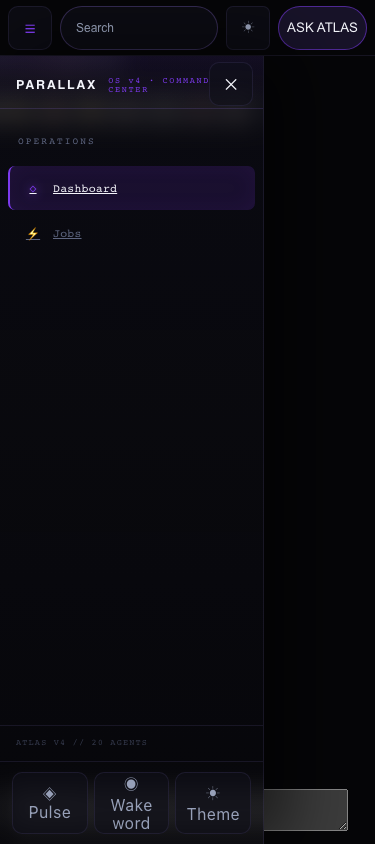
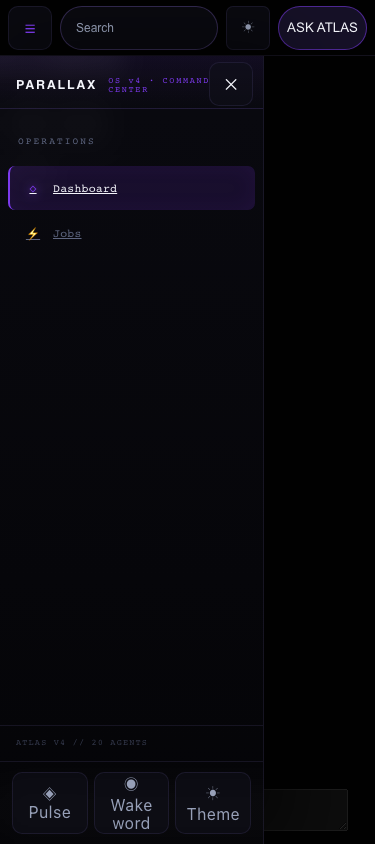
fix(cc): close the gaps the remediation review found
Quick controls now span the whole 0-1024 band the HUD hides them in, not just phones, so a tablet
has a path to Pulse, Wake word and Theme. The close button stops double-counting the safe-area
inset after the drawer moved below the HUD. Focus restoration treats <body> as 'no opener', which is
what mobile Safari leaves after a tap, and is armed only by a real open-to-close transition so a
phone page load no longer steals focus.

The touch-target floor now names classes that exist (.pg-btn, .task-quick on the task board's 17px
quick actions) instead of dead selectors. Tests: the focus assertion targets the close branch, the
reachability test reads the CSS that hides the controls, and the harness's overlay is a real fixed
layer with the dense-cluster measurement on real buttons.

Changed region(s): [[0.704, 0.9242, 0.9387, 0.9858]]

diff --git a/src/app/command-center/CommandCenterClientLayout.tsx b/src/app/command-center/CommandCenterClientLayout.tsx
@@ -289,6 +289,8 @@ function Cockpit({
           .po-shell .po-side-close,
           .po-shell .po-quick,
           .po-shell .sw-filter-row button,
+          .po-shell .task-quick,
+          .po-shell .pg-btn,
           .po-shell .chat-input-area button,
           .po-shell .chat-header-bar button { min-height: 44px; }
           .po-shell .po-side-close, .po-shell .po-quick { min-width: 44px; }
@@ -307,7 +309,6 @@ function Cockpit({
           .po-shell .chat-inline-symbol { display: none !important; }
           .po-shell .chat-input-textarea { padding-right: 118px !important; }
           .po-shell .chat-top-nav a { min-height: 44px; display: inline-flex; align-items: center; }
-          body:has(#cc-alertbar) .chat-root { height: calc(100dvh - 102px - env(safe-area-inset-top)) !important; }
           .po-shell .sanc-star { padding: 12px 14px; margin: -12px -14px; }
         }
         @media (max-width: 767px) {
@@ -377,10 +378,11 @@ function Cockpit({
         /* The chat pane sizes itself from the viewport, so it has to give back the same 38px the
            ticker adds to the content inset — at every width, not only the tablet one. */
         @media (min-width: 768px) {
-          /* The page sizes its own pane from 100vh - 56px, but the desktop HUD is 64px, so the
-             composer sat 8px below the fold before this rule. */
-          .chat-root { height: calc(100dvh - 64px - env(safe-area-inset-top)) !important; }
-          body:has(#cc-alertbar) .chat-root { height: calc(100dvh - 102px - env(safe-area-inset-top)) !important; }
+          /* Scoped to the content column so no future page inherits it by accident. The page sizes
+             its own pane from 100vh - 56px, but the desktop HUD is 64px, so the composer sat 8px
+             below the fold before this rule. */
+          #cc-content .chat-root { height: calc(100dvh - 64px - env(safe-area-inset-top)) !important; }
+          body:has(#cc-alertbar) #cc-content .chat-root { height: calc(100dvh - 102px - env(safe-area-inset-top)) !important; }
         }
         #cc-alertbar { top: calc(64px + env(safe-area-inset-top)) !important; }
         .po-menu-btn { display: none; }
@@ -391,9 +393,18 @@ function Cockpit({
           .po-shell .po-cmdbar { justify-content: center; padding: 0 10px; }
         }
         .po-side-close { display: none; }
+        /* The HUD hides these three at <=1024, so the drawer must offer them across the whole
+           range it hides them in, not only on phones. On the 66px rail they stack icon-only. */
         .po-side-quick { display: none; }
+        @media (max-width: 1024px) {
+          .po-side-quick { display: grid; grid-template-columns: 1fr; gap: 6px; padding: 8px 8px 10px; border-top: 1px solid var(--line); }
+          .po-shell .po-quick { min-height: 44px; font-size: 0; }
+          .po-shell .po-quick .lbl { display: none; }
+        }
         @media (max-width: 767px) {
-          .po-side-quick { display: grid; grid-template-columns: repeat(3, 1fr); gap: 6px; padding: 10px 12px; border-top: 1px solid var(--line); }
+          .po-side-quick { grid-template-columns: repeat(3, 1fr); padding: 10px 12px; }
+          .po-shell .po-quick { font-size: 10px; }
+          .po-shell .po-quick .lbl { display: block; }
         }
         @media (max-width: 767px) {
           #cc-hud { left: 0 !important; height: calc(56px + env(safe-area-inset-top)) !important; padding: env(safe-area-inset-top) 8px 0 !important; gap: 8px !important; }
@@ -424,7 +435,7 @@ function Cockpit({
           .po-shell .po-quick { display: inline-flex; flex-direction: column; align-items: center; justify-content: center; gap: 4px; min-height: 52px; border-radius: 10px; border: 1px solid var(--line); background: var(--panel-glass); color: var(--t-mid); font: 600 10px/1.2 var(--f-sans, inherit); letter-spacing: 0.04em; cursor: pointer; }
           .po-shell .po-quick[aria-pressed='true'] { color: var(--accent); border-color: color-mix(in oklab, var(--accent) 45%, var(--line)); }
           .po-side-head { padding-right: 56px; }
-          .po-side-close { display: grid; position: absolute; top: calc(env(safe-area-inset-top) + 6px); right: 10px; width: 44px; height: 44px; place-items: center; z-index: 2; border-radius: 10px; border: 1px solid var(--line); background: var(--panel-glass); color: var(--t-hi); font: inherit; cursor: pointer; }
+          .po-side-close { display: grid; position: absolute; top: 6px; right: 10px; width: 44px; height: 44px; place-items: center; z-index: 2; border-radius: 10px; border: 1px solid var(--line); background: var(--panel-glass); color: var(--t-hi); font: inherit; cursor: pointer; }
           .po-shell .po-navitem { min-height: 44px; }
           .po-shell .atlas-briefing { top: calc(56px + env(safe-area-inset-top)) !important; width: 100vw !important; max-width: 100vw !important; z-index: 80 !important; padding-bottom: env(safe-area-inset-bottom); }
           .po-shell .atlas-briefing button { min-width: 44px; min-height: 44px; }
@@ -450,8 +461,8 @@ function Cockpit({
           .po-shell .po-side-close,
           .po-shell .po-quick,
           .po-shell .sw-filter-row button,
-          .po-shell .task-actions button,
-          .po-shell .pg-head-act button { min-height: 44px; }
+          .po-shell .task-quick,
+          .po-shell .pg-btn { min-height: 44px; }
           .po-shell .po-side-close, .po-shell .po-quick { min-width: 44px; }
           .po-shell .pg-head-act a { min-height: 44px; display: inline-flex; align-items: center; }
           .po-shell .chat-input-area button, .po-shell .chat-header-bar button { min-width: 44px; }

diff --git a/src/components/command-center/__tests__/Sidebar.mobile.test.tsx b/src/components/command-center/__tests__/Sidebar.mobile.test.tsx
@@ -12,8 +12,9 @@ import Sidebar from '../Sidebar';
 
 vi.mock('next/navigation', () => ({ usePathname: () => '/command-center' }));
 
+const toggleTheme = vi.fn();
 vi.mock('../PoShell', () => ({
-  usePoTheme: () => ({ theme: 'dark', still: false, toggleTheme: vi.fn(), toggleStill: vi.fn() }),
+  usePoTheme: () => ({ theme: 'dark', still: false, toggleTheme, toggleStill: vi.fn() }),
 }));
 
 /** jsdom has no matchMedia; the drawer asks it whether it is in its off-canvas state. */
@@ -59,7 +60,9 @@ describe('mobile drawer', () => {
     const menu = document.createElement('button');
     menu.id = 'cc-menu-btn';
     document.body.appendChild(menu);
-    menu.focus();
+    // Deliberately NOT focused first: mobile Safari leaves activeElement on <body> after a tap, so
+    // this is the real-world case. A test that pre-focuses the button hides the bug.
+    expect(document.activeElement).toBe(document.body);
 
     render(<Sidebar />);
     openDrawer();
@@ -67,7 +70,7 @@ describe('mobile drawer', () => {
 
     fireEvent.keyDown(document, { key: 'Escape' });
     await waitFor(() => expect(drawer()).toHaveAttribute('inert'));
-    expect(document.activeElement).toBe(menu);
+    await waitFor(() => expect(document.activeElement).toBe(menu));
     menu.remove();
   });
 
@@ -77,6 +80,17 @@ describe('mobile drawer', () => {
     expect(drawer()).not.toHaveAttribute('inert');
   });
 
+  it('does not steal focus on a phone page load, when the drawer was never opened', async () => {
+    const menu = document.createElement('button');
+    menu.id = 'cc-menu-btn';
+    document.body.appendChild(menu);
+    render(<Sidebar />);
+    // let the matchMedia effect flip isPhone true and the state effect re-run
+    await waitFor(() => expect(drawer()).toHaveAttribute('inert'));
+    expect(document.activeElement).not.toBe(menu);
+    menu.remove();
+  });
+
   it('carries working pulse, wake and theme controls', async () => {
     const pulses: Event[] = [];
     const wakes: Event[] = [];
@@ -84,14 +98,34 @@ describe('mobile drawer', () => {
     window.addEventListener('cc:toggle-wake', (e) => wakes.push(e));
 
     render(<Sidebar />);
-    openDrawer();
-    await waitFor(() => expect(drawer()).not.toHaveAttribute('inert'));
+
+    // Each control hands the screen back to whatever it opened, so each is used from a fresh open.
+    const open = async () => {
+      openDrawer();
+      await waitFor(() => expect(drawer()).not.toHaveAttribute('inert'));
+    };
+
+    await open();
     fireEvent.click(screen.getByRole('button', { name: /pulse/i }));
-    fireEvent.click(screen.getByRole('button', { name: /wake/i }));
-    fireEvent.click(screen.getByRole('button', { name: /theme|appearance/i }));
+    await waitFor(() => expect(drawer()).toHaveAttribute('inert'));
+
+    await open();
+    fireEvent.click(screen.getByRole('button', { name: /wake word/i }));
+    await waitFor(() => expect(drawer()).toHaveAttribute('inert'));
+
+    await open();
+    fireEvent.click(screen.getByRole('button', { name: /theme/i }));
 
     expect(pulses).toHaveLength(1);
     expect(wakes).toHaveLength(1);
-    expect(screen.getByRole('button', { name: /theme|appearance/i })).toBeInTheDocument();
+    expect(toggleTheme).toHaveBeenCalledTimes(1);
+  });
+
+  it('reflects pressed state from the shell rather than guessing', async () => {
+    render(<Sidebar wakeEnabled pulseOpen />);
+    openDrawer();
+    await waitFor(() => expect(drawer()).not.toHaveAttribute('inert'));
+    expect(screen.getByRole('button', { name: /pulse/i })).toHaveAttribute('aria-pressed', 'true');
+    expect(screen.getByRole('button', { name: /wake word/i })).toHaveAttribute('aria-pressed', 'true');
   });
 });

diff --git a/src/app/command-center/tasks/page.tsx b/src/app/command-center/tasks/page.tsx
@@ -482,7 +482,7 @@ export default function TaskBoardPage() {
                       <div className="flex gap-1.5 mt-2">
                         {col.id === "backlog" && (
                           <button
-                            className="flex-1 text-[10px] py-1.5 rounded-lg font-medium transition-all hover:scale-105"
+                            className="task-quick flex-1 text-[10px] py-1.5 rounded-lg font-medium transition-all hover:scale-105"
                             style={{ background: "color-mix(in srgb, var(--c-amber) 15%, transparent)", color: "var(--c-amber)", border: "1px solid color-mix(in srgb, var(--c-amber) 25%, transparent)" }}
                             onClick={() => quickAction(task, col.id, "in-progress")}
                           >
@@ -491,7 +491,7 @@ export default function TaskBoardPage() {
                         )}
                         {col.id === "in-progress" && (
                           <button
-                            className="flex-1 text-[10px] py-1.5 rounded-lg font-medium transition-all hover:scale-105"
+                            className="task-quick flex-1 text-[10px] py-1.5 rounded-lg font-medium transition-all hover:scale-105"
                             style={{ background: "color-mix(in srgb, var(--c-purple) 15%, transparent)", color: "var(--c-purple)", border: "1px solid color-mix(in srgb, var(--c-purple) 25%, transparent)" }}
                             onClick={() => quickAction(task, col.id, "review")}
                           >
@@ -501,21 +501,21 @@ export default function TaskBoardPage() {
                         {col.id === "review" && (
                           <>
                             <button
-                              className="flex-1 text-[10px] py-1.5 rounded-lg font-medium transition-all hover:scale-105"
+                              className="task-quick flex-1 text-[10px] py-1.5 rounded-lg font-medium transition-all hover:scale-105"
                               style={{ background: "color-mix(in srgb, var(--c-green) 15%, transparent)", color: "var(--c-green)", border: "1px solid color-mix(in srgb, var(--c-green) 25%, transparent)" }}
                               onClick={() => quickAction(task, col.id, "done")}
                             >
                               Approve
                             </button>
                             <button
-                              className="flex-1 text-[10px] py-1.5 rounded-lg font-medium transition-all hover:scale-105"
+                              className="task-quick flex-1 text-[10px] py-1.5 rounded-lg font-medium transition-all hover:scale-105"
                               style={{ background: "color-mix(in srgb, var(--c-red) 15%, transparent)", color: "var(--c-red)", border: "1px solid color-mix(in srgb, var(--c-red) 25%, transparent)" }}
                               onClick={() => quickAction(task, col.id, "backlog")}
                             >
                               Reject
                             </button>
                             <button
-                              className="flex-1 text-[10px] py-1.5 rounded-lg font-medium transition-all hover:scale-105"
+                              className="task-quick flex-1 text-[10px] py-1.5 rounded-lg font-medium transition-all hover:scale-105"
                               style={{ background: "color-mix(in srgb, var(--c-amber) 15%, transparent)", color: "var(--c-amber)", border: "1px solid color-mix(in srgb, var(--c-amber) 25%, transparent)" }}
                               onClick={() => { setReviseTask(task); setReviseFeedback(""); }}
                             >

diff --git a/src/components/command-center/Sidebar.tsx b/src/components/command-center/Sidebar.tsx
@@ -183,11 +183,16 @@ export default function Sidebar({
     return () => window.removeEventListener('cc:toggle-nav', toggle);
   }, []);
 
+  const wasOpen = useRef(false);
   useEffect(() => {
     window.dispatchEvent(new CustomEvent('cc:nav-state', { detail: { open: mobileOpen } }));
-    if (!isPhone) return undefined;
+    if (!isPhone) {
+      wasOpen.current = mobileOpen;
+      return undefined;
+    }
 
     if (mobileOpen) {
+      wasOpen.current = true;
       const focusId = window.setTimeout(() => closeRef.current?.focus(), 0);
       const onKey = (e: KeyboardEvent) => {
         if (e.key === 'Escape') {
@@ -202,10 +207,16 @@ export default function Sidebar({
       };
     }
 
-    // Closing returns focus to whatever opened the drawer, normally the HUD menu button.
-    const target = openedFrom.current ?? document.getElementById('cc-menu-btn');
+    // Closing returns focus to whatever opened the drawer, normally the HUD menu button. Mobile
+    // Safari does not focus a button on tap, so activeElement is <body>: that is "no opener",
+    // not an opener, and focusing <body> would put the user nowhere.
+    if (!wasOpen.current) return undefined;
+    wasOpen.current = false;
+    const from = openedFrom.current;
     openedFrom.current = null;
-    if (target && document.contains(target)) target.focus();
+    const usable = from && from !== document.body && from !== document.documentElement && document.contains(from);
+    const target = usable ? from : document.getElementById('cc-menu-btn');
+    if (target) target.focus();
     return undefined;
   }, [mobileOpen, isPhone]);
 
@@ -299,25 +310,33 @@ export default function Sidebar({
             type="button"
             className="po-quick"
             aria-pressed={pulseOpen}
-            onClick={() => window.dispatchEvent(new CustomEvent('cc:toggle-pulse'))}
+            onClick={() => {
+              // the dock paints below the drawer overlay, so hand the screen back to it
+              window.dispatchEvent(new CustomEvent('cc:toggle-pulse'));
+              setMobileOpen(false);
+            }}
           >
-            <span aria-hidden>◈</span> Pulse
+            <span aria-hidden>◈</span><span className="lbl">Pulse</span>
           </button>
           <button
             type="button"
             className="po-quick"
             aria-pressed={wakeEnabled}
-            onClick={() => window.dispatchEvent(new CustomEvent('cc:toggle-wake'))}
+            onClick={() => {
+              window.dispatchEvent(new CustomEvent('cc:toggle-wake'));
+              setMobileOpen(false);
+            }}
           >
-            <span aria-hidden>◉</span> Wake word
+            <span aria-hidden>◉</span><span className="lbl">Wake word</span>
           </button>
           <button
             type="button"
             className="po-quick"
-            aria-pressed={theme === 'light'}
+            aria-label={`Theme: ${theme}`}
             onClick={toggleTheme}
+            data-theme-state={theme}
           >
-            <span aria-hidden>☀</span> Theme
+            <span aria-hidden>☀</span><span className="lbl">Theme</span>
           </button>
         </div>
       </aside>

diff --git a/src/components/command-center/__tests__/shell-invariants.test.ts b/src/components/command-center/__tests__/shell-invariants.test.ts
@@ -53,8 +53,15 @@ describe('chat height against the alert ticker', () => {
     expect(chat).toMatch(/body:has\(#cc-alertbar\)\s+\.chat-root\s*\{[^}]*100dvh\s*-\s*94px/);
   });
 
-  it('reserves the ticker in the tablet chat height', () => {
-    expect(shellCss).toMatch(/body:has\(#cc-alertbar\)\s+\.chat-root\s*\{[^}]*100dvh\s*-\s*102px/);
+  it('reserves the ticker in the tablet and desktop chat height', () => {
+    expect(shellCss).toMatch(/body:has\(#cc-alertbar\)\s+#cc-content\s+\.chat-root\s*\{[^}]*100dvh\s*-\s*102px/);
+  });
+
+  it('scopes the pane height to the content column rather than every page', () => {
+    // An unqualified `.chat-root` rule on a shell that wraps every route would stomp any future
+    // page that reuses the class, with nothing local to explain it.
+    expect(shellCss).toMatch(/#cc-content\s+\.chat-root/);
+    expect(shellCss).not.toMatch(/^\s*\.chat-root\s*\{/m);
   });
 });
 
@@ -69,6 +76,16 @@ describe('touch targets are targeted, not blanket', () => {
     expect(shellCss).toMatch(/\.po-shell\s+\.po-icbtn/);
     expect(shellCss).toMatch(/\.po-shell\s+\.po-navitem/);
     expect(shellCss).toMatch(/\.po-menu-btn/);
+    // The task board's quick actions were 17px before the blanket rule hid the problem; they need
+    // a floor of their own now that the blanket rule is gone.
+    expect(shellCss).toMatch(/\.po-shell\s+\.task-quick/);
+    expect(shellCss).toMatch(/\.po-shell\s+\.pg-btn/);
+  });
+
+  it('names only classes that exist, so the floor is not decorative', () => {
+    for (const dead of ['task-actions', 'pg-head-act button']) {
+      expect(shellCss, `${dead} is styled but appears in no page`).not.toMatch(new RegExp(dead));
+    }
   });
 });
 
@@ -103,12 +120,27 @@ describe('drawer keyboard behaviour', () => {
   });
 
   it('restores focus to the menu button when it closes', () => {
-    expect(sidebar).toMatch(/\.focus\(\)/);
+    // The close branch specifically: the open branch also calls .focus(), so a loose match would
+    // stay green with the restoration deleted.
+    expect(sidebar).toMatch(/const target = usable \? from : document\.getElementById\('cc-menu-btn'\)/);
+    expect(sidebar).toMatch(/if \(target\) target\.focus\(\)/);
+  });
+
+  it('treats <body> as "no opener", because mobile Safari does not focus buttons on tap', () => {
+    expect(sidebar).toMatch(/from !== document\.body/);
   });
 });
 
 describe('secondary controls stay reachable on mobile and tablet', () => {
   const quick = sidebar.match(/po-side-quick[\s\S]*?<\/div>/);
+
+  it('shows the quick controls across the whole range the HUD hides its copies', () => {
+    // The HUD hides pulse/wake/theme at <=1024. If the drawer only restores them <=767, every
+    // iPad width has no path to any of the three.
+    const flat = shellCss.replace(/\s+/g, ' ');
+    expect(flat, 'the quick row is not shown in the <=1024 range the HUD hides its copies')
+      .toMatch(/@media \(max-width: 1024px\) \{ \.po-side-quick \{ display: grid/);
+  });
 
   it('offers pulse, wake word and theme from the drawer', () => {
     expect(quick, 'the drawer has no quick-controls block').toBeTruthy();

diff --git a/ops-handoff/CC-MOBILE-UX-REMEDIATION-2026-11-15.md b/ops-handoff/CC-MOBILE-UX-REMEDIATION-2026-11-15.md
@@ -10,18 +10,19 @@ nothing deployed.
 |---|---|---|---|
 | 1 | `viewportFit: "cover"` was added to the **root** layout, so every marketing route ran under the notch with no safe-area handling anywhere outside Command Center | Reverted on the root; the Command Center keeps its own scoped contract | `shell-invariants`: root has no `viewportFit`, CC does, and a grep proves no `safe-area-inset` exists outside `command-center/`. Rendered `/` carries `width=device-width, initial-scale=1, maximum-scale=5` and **no** `viewport-fit`. `marketing-home-{390,1440}.png` |
 | 2 | Chat composer pushed ~38px below the fold whenever the alert ticker was mounted: the pane sized itself from `100dvh - 56px` while its container gained the ticker's 38px | Pane gives back the ticker at both breakpoints (94px phone, 102px tablet), and the desktop pane now accounts for the 64px HUD it previously ignored (an 8px overflow that predates this PR) | Harness measures the composer bottom at 320/375/390/430/768/1024/1440, **with and without** the ticker; all sit at or inside the viewport |
-| 3 | Pulse and wake-word unreachable at ≤1024 with no alternative; theme had no in-PWA path | The drawer now carries functional **Pulse, Wake word and Theme** controls (real handlers, `aria-pressed`, state passed from the shell), plus the author's Appearance control in Settings | `Sidebar.mobile.test`: each control fires its intent and reflects pressed state. Harness: the row renders at every phone width and is hidden on desktop |
+| 3 | Pulse and wake-word unreachable at ≤1024 with no alternative; theme had no in-PWA path | The drawer carries functional **Pulse, Wake word and Theme** controls across the **whole 0–1024 band** the HUD hides its copies in: three across in the phone drawer, stacked icon-only on the 66px tablet rail, hidden above 1024 where the HUD shows its own. Real handlers, `aria-pressed` from shell state, and pressing one hands the screen back to what it opened | `Sidebar.mobile.test`: each control fires its intent, reflects pressed state, and closes the drawer. Harness: visible at 320/375/390/430/768/1024, hidden at 1440 |
 | 4 | Overlay (z75) sat above the HUD (z70), and the drawer (z80) covered the menu button, so the menu opened the drawer and could never close it | Stacking is now content < overlay 65 < HUD 70 < briefing 80 < drawer 85, and the drawer starts **below** the HUD (`top: 56px + safe-area`) so the menu stays a live toggle | Harness hit-tests the menu's own centre **with the drawer open** at 5 phone widths: the menu button is the topmost element every time. HUD reports `aria-expanded` and swaps its label |
-| 5 | Closed drawer stayed in the tab order; no Escape; no focus restoration | `inert` + `aria-hidden` on the closed drawer (phone widths only, never on the desktop rail), Escape closes it, focus moves to the close control on open and returns to whatever opened it on close | `Sidebar.mobile.test`: inert when closed, interactive when open, Escape closes and returns focus to the menu button, never inert above 768px |
-| 6 | Blanket `button { min-height: 44px }` inflated the 26px rail dividers and turned dense 7-button chat rows into clipped squares | Replaced with targeted selectors (icon buttons, nav rows, quick controls, filter rows, header actions). Rail dividers and inline clusters are excluded deliberately | Harness: rail divider 17–24px (not 44) at 768/1024/1440; chat action buttons 33px wide, not 44; menu and quick controls still ≥44 |
+| 5 | Closed drawer stayed in the tab order; no Escape; no focus restoration | `inert` + `aria-hidden` on the closed drawer (phone widths only, never on the desktop rail), Escape closes it, focus moves to the close control on open and **returns to the menu button on close — including on iOS, where `<body>` is the active element after a tap and is now treated as "no opener"**. The restore is armed only by a real open→close transition, so a phone page load no longer steals focus | `Sidebar.mobile.test`: inert when closed, Escape closes and refocuses the menu, no focus theft on load, never inert above 768px |
+| 6 | Blanket `button { min-height: 44px }` inflated the 26px rail dividers and turned dense inline controls into clipped squares | Replaced with targeted selectors that name classes which exist: icon buttons, nav rows and section headers (44px across the whole drawer range), quick controls, filter rows, chat composer buttons, `.pg-btn`, and `.task-quick` — the task board's quick actions that were 17px before. Rail dividers and deliberately compact inline controls are excluded | Harness: rail divider 17–24px (not 44); task quick actions 44px; a deliberately compact inline control stays compact; menu and quick controls ≥44 |
 
 ## Evidence
 
-* `npx vitest run` — **923 passed, 4 skipped** (was 901/4; the 22 new tests are the two files below).
-* `npm run lint` — 0 errors, 192 warnings (191 pre-existing + 0 from this work; the harness's unused
-  import was removed).
+* `npx vitest run` — **929 passed, 4 skipped** (was 901/4 at the reviewed head; the 28 new tests are
+  the two files below).
+* `npm run lint` — 0 errors, 192 warnings (191 pre-existing + 0 from this work).
 * `npx tsc --noEmit` — clean. `npm run build` — clean.
-* `node scripts/cc-shell-harness.mjs --shots` — **102 checks, 0 failed**, at 320/375/390/430/768/1024/1440.
+* `node scripts/cc-shell-harness.mjs --shots` — **106 checks, 0 failed**, at
+  320/375/390/430/768/1024/1440, with the alert ticker mounted and removed.
 * Screenshots: `ops-handoff/cc-mobile-ux-remediation/` (`shell-*`, `drawer-open-*`,
   `marketing-home-*`).
 
@@ -39,7 +40,10 @@ nothing deployed.
 
 The shell harness mounts the **real stylesheets** (all thirteen `po-*.css` files, the shell's own
 CSS-in-JS blocks, and the chat page's), over the shell's real element structure, in Chromium. It
-measures stacking, hit targets, inset arithmetic and clipping — the things jsdom cannot see.
+measures stacking, hit targets, inset arithmetic and clipping — the things jsdom cannot see. Its
+overlay is a real fixed layer (an earlier version styled it with Tailwind classes the harness does
+not load, so its z-index was inert and the check could not fail), and its dense-cluster measurement
+uses the task board's real `.task-quick` buttons, not invented markup.
 
 It is **not** the authenticated application. `/command-center` sits behind the owner guard (Firebase
 session, or a trusted-device PIN cookie re-checked against a live database row), and this pass did not
